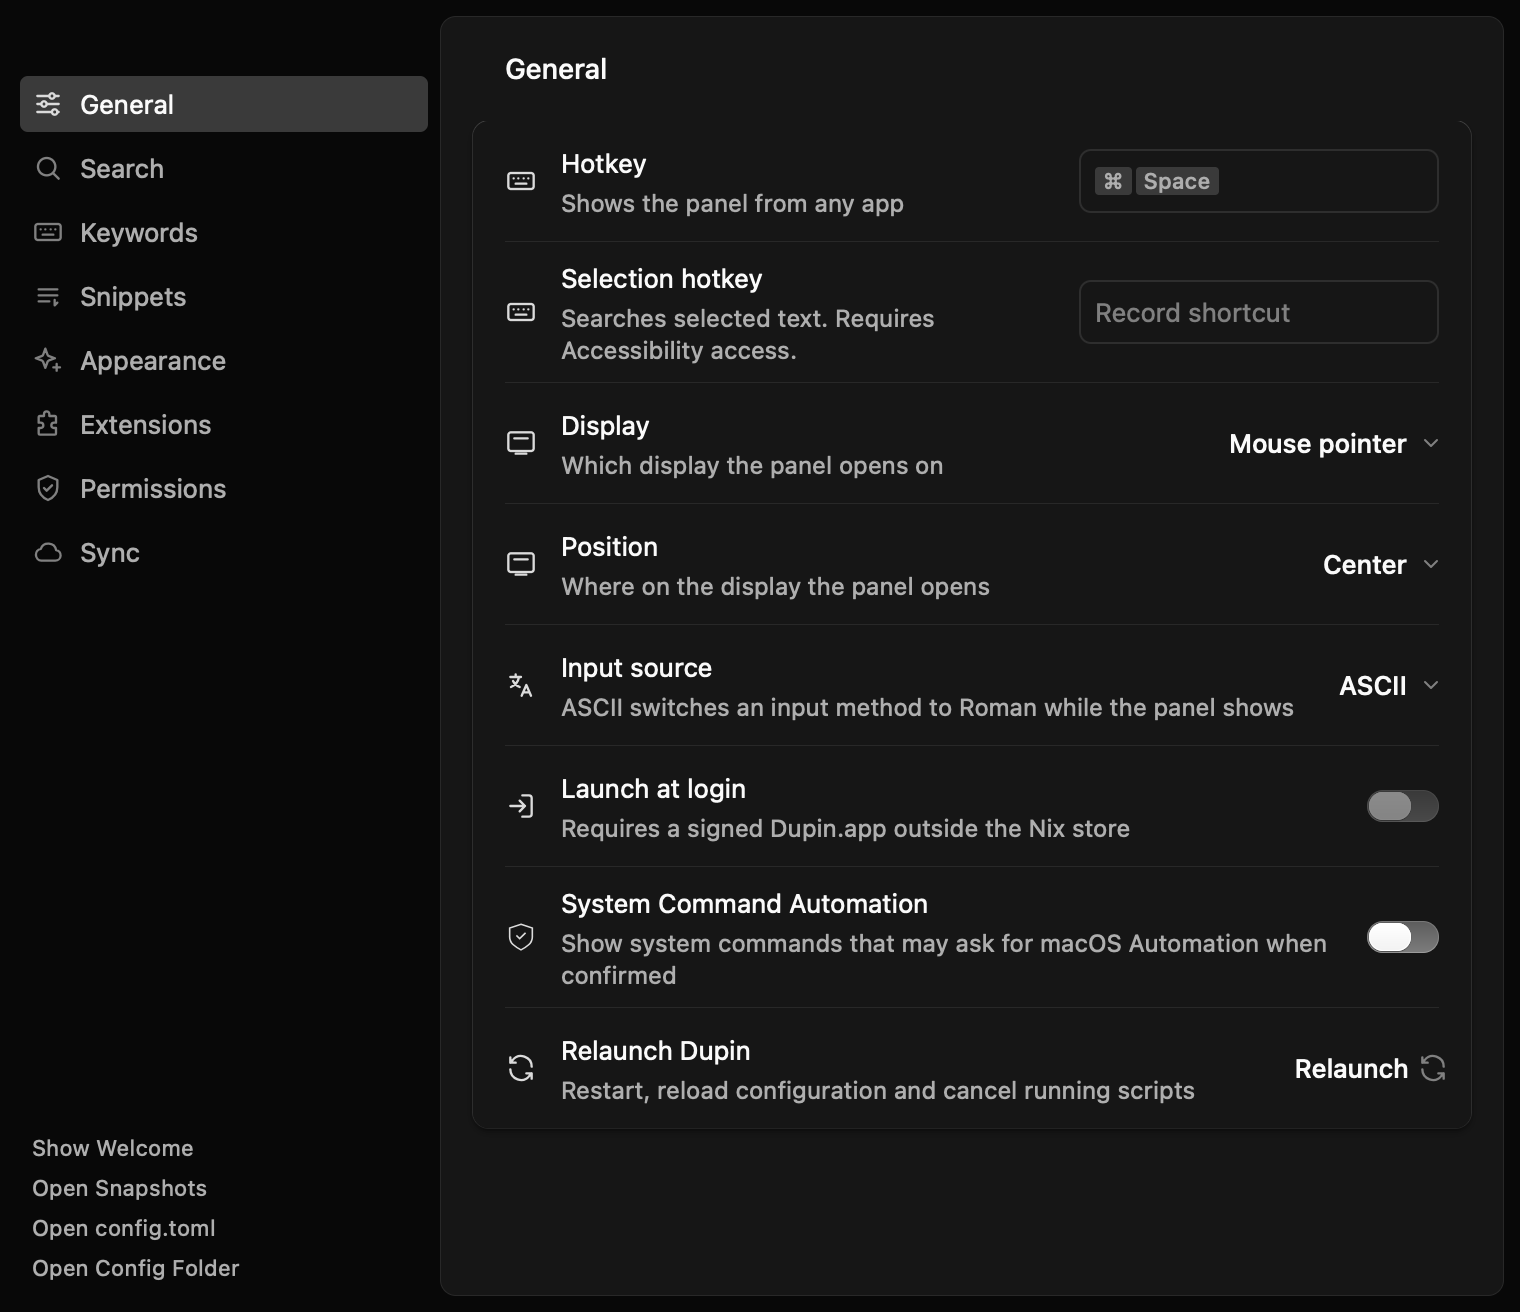
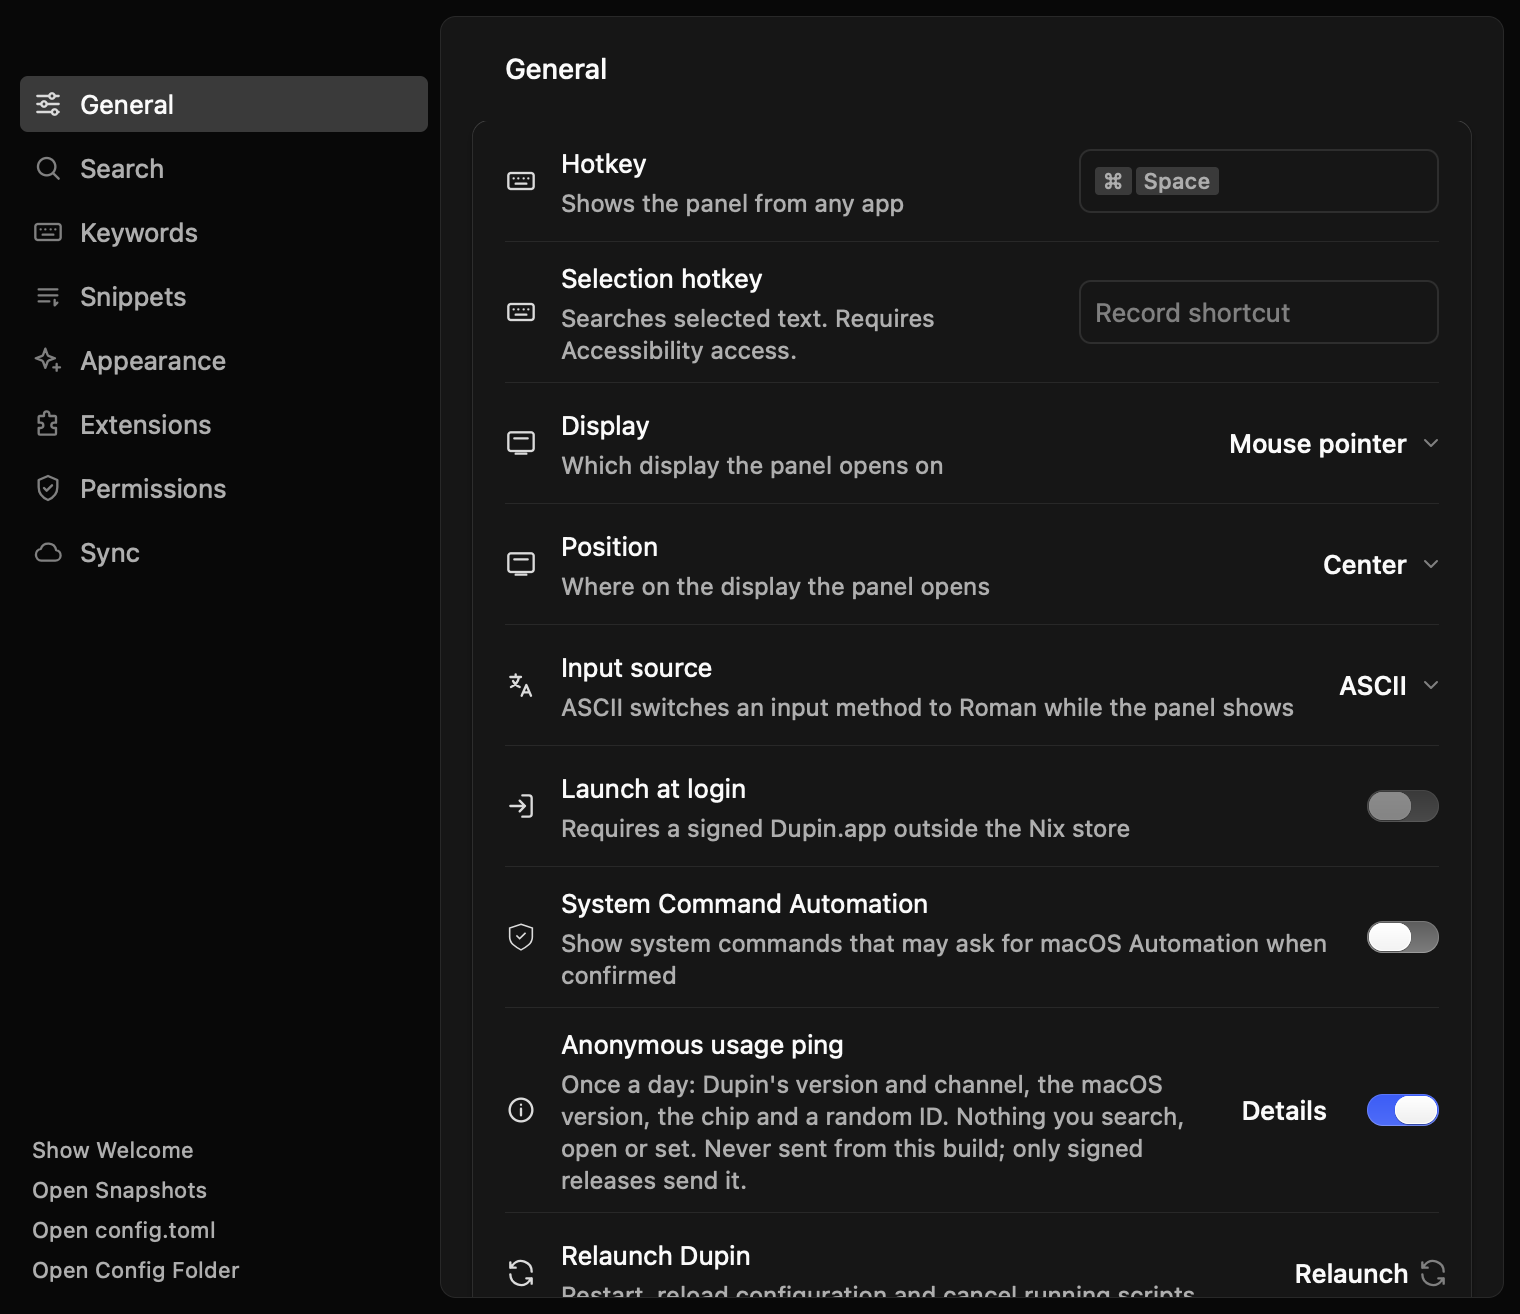
fix(docs-images): render headless scenarios with only their own environment
The settings/general image read "Off because DO_NOT_TRACK is set"
when rendered on a Mac whose shell sets DO_NOT_TRACK. Headless scenario
runs layered the scratch environment over the shell's with `with-env`,
so every variable the scratch environment didn't name leaked into the
render. DO_NOT_TRACK and DUPIN_TELEMETRY_DISABLED change the usage ping
row, and SHELL, PATH and the rest could change what other images draw.

`dupin ext render` already starts its run with `env_clear()` and an
explicit list. Do the same for scenario runs: `scratch-environment`
now returns the whole environment, with the same minimal PATH, and
`headless-in` runs Dupin under `env -i` with exactly that record. An
allowlist rather than a few removed names, so the next variable that
changes a render can't leak either.

settings/general is re-rendered with the fix.

diff --git a/docs/development.md b/docs/development.md
@@ -190,7 +190,7 @@ dupin.app/docs is this folder, rendered when the website builds (`just website::
 
 The images in `docs/images` are rendered, never taken by hand. `scripts/docs-images/images.toml` lists each one; `just docs-images` (`nu scripts/docs-images.nu` after `cargo build -p dupin`) renders every one in light and dark to `docs/images/<page>/<name>-<theme>.png`, compresses them losslessly with oxipng and deletes the images the list no longer has. `--only <text>` renders just the images whose `<page>/<name>` contains it. Re-run it after a change to anything an image shows, and commit the result.
 
-Every image comes from fixtures, so a render on any Mac shows nothing of that Mac's: a bundled or example extension's own fixture through `dupin ext render`, or a headless scenario run in a scratch home that holds the fixture documents and usage history the list names, with the fixture clipboard history and snapshots, and with `DUPIN_HEADLESS_APPS=/System/Applications`. A headless run takes that `PATH`-style list in place of the app folders, so it lists only the stock apps; `dupin ext render` sets it empty. Spotlight indexes nothing in a scratch home, and on some Macs not even a fresh disk image, so no image shows a Spotlight search: the file images start from Recent items. Settings pages are drawn from the `prefs` window (`--window prefs`).
+Every image comes from fixtures, so a render on any Mac shows nothing of that Mac's: a bundled or example extension's own fixture through `dupin ext render`, or a headless scenario run in a scratch home that holds the fixture documents and usage history the list names, with the fixture clipboard history and snapshots, and with `DUPIN_HEADLESS_APPS=/System/Applications`. A headless run takes that `PATH`-style list in place of the app folders, so it lists only the stock apps; `dupin ext render` sets it empty. Neither inherits the shell's environment: each run gets only the variables it is given, so one set on the rendering Mac, such as `DO_NOT_TRACK`, changes nothing drawn. Spotlight indexes nothing in a scratch home, and on some Macs not even a fresh disk image, so no image shows a Spotlight search: the file images start from Recent items. Settings pages are drawn from the `prefs` window (`--window prefs`).
 
 A page embeds an image as a `<picture>` whose `prefers-color-scheme: dark` source is the dark image, so GitHub shows the one matching the reader's theme:
 
